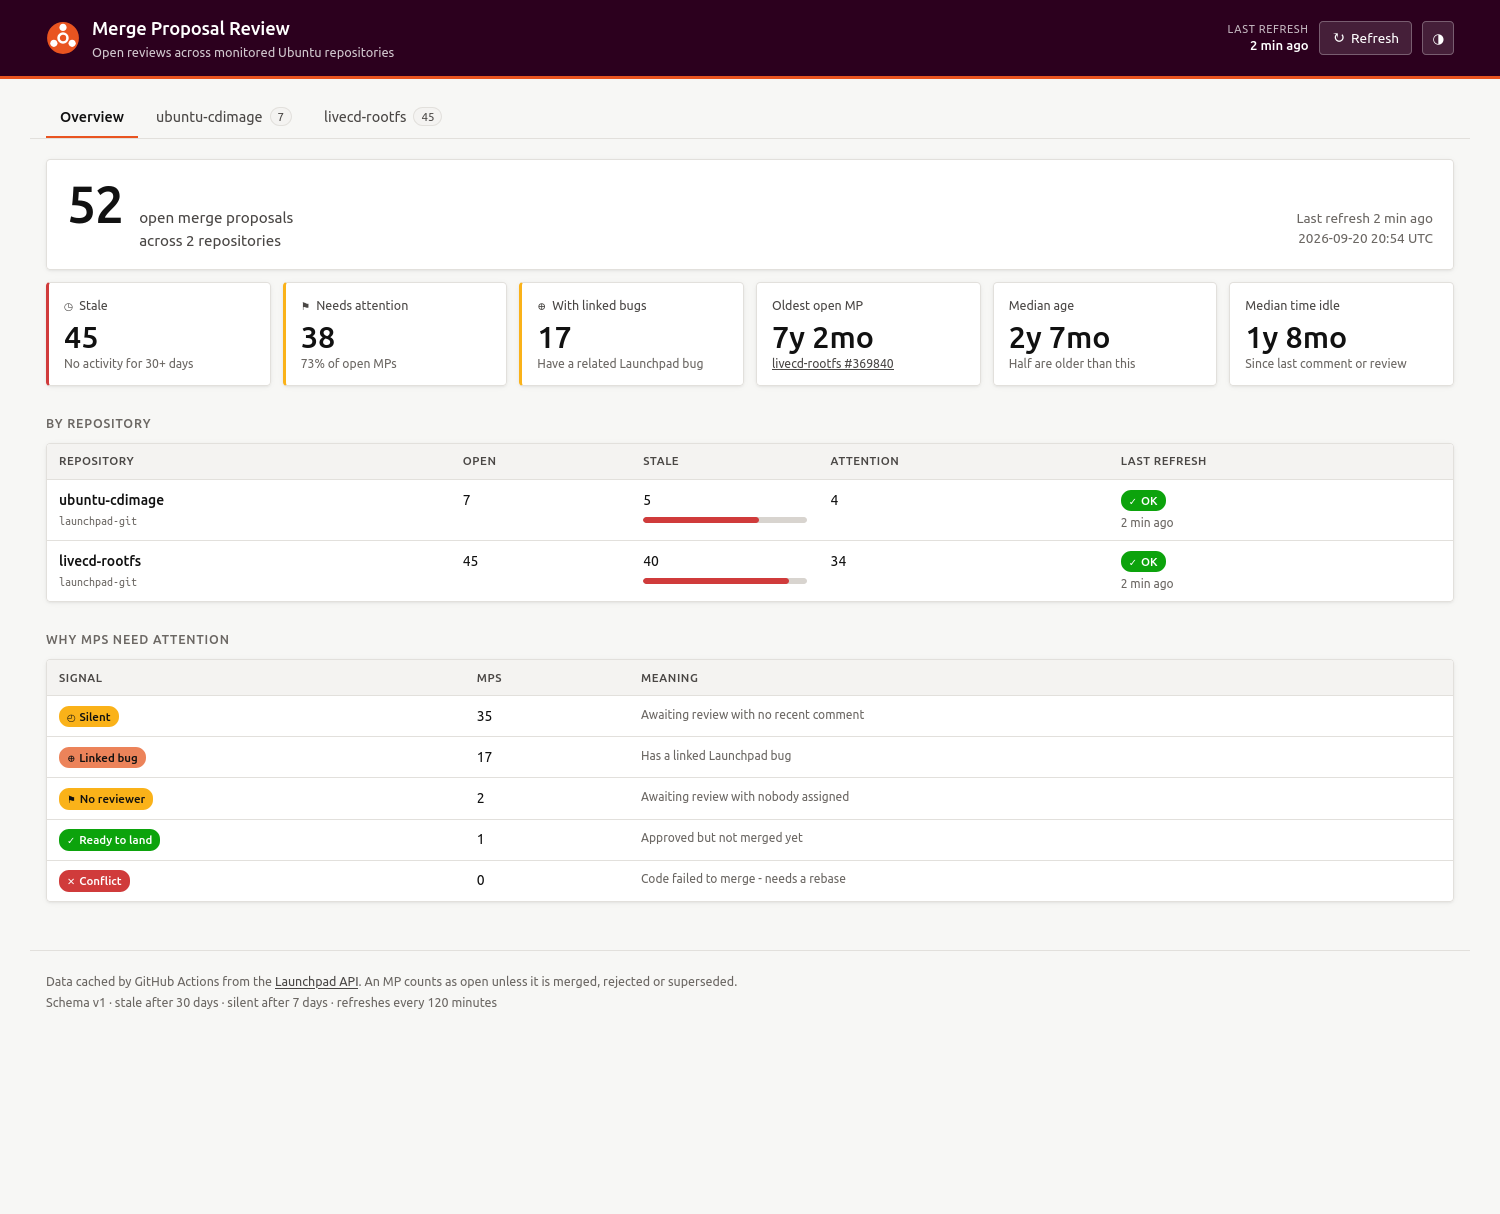
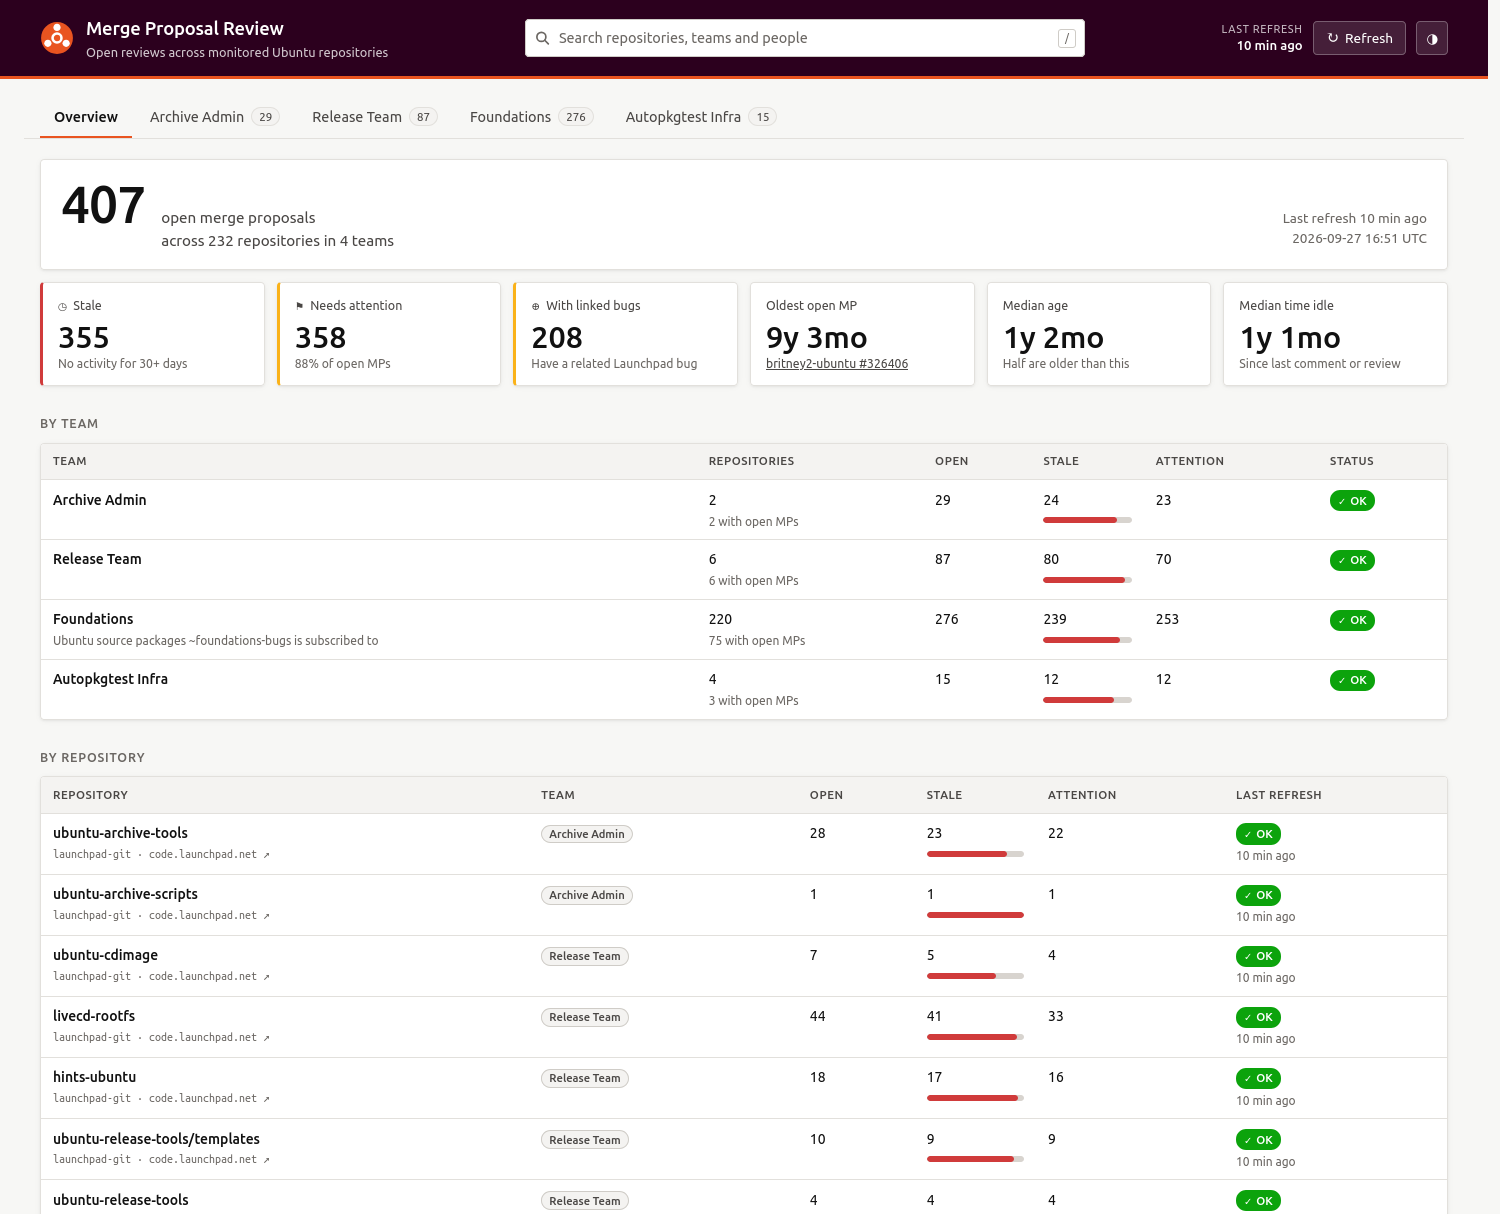
docs: document teams, search and the People view

diff --git a/README.md b/README.md
@@ -4,13 +4,25 @@ A small, static dashboard showing every **open merge proposal** across a
 configured set of Ubuntu repositories — what is stale, what needs attention, and
 who owns it. Hosted on GitHub Pages, refreshed by GitHub Actions.
 
-![Overview tab: 52 open merge proposals, stale and attention counts, per-repository breakdown](docs/assets/screenshot-overview.png)
+![Overview: open merge proposals, stale and attention counts, per-team and per-repository breakdowns](docs/assets/screenshot-overview.png)
 
-<details><summary>Per-project tab</summary>
+<details><summary>Team, people and repository views</summary>
+
+![A team's repositories with open, stale and attention counts, filterable and sortable](docs/assets/screenshot-team.png)
+
+![A team's people with their open, stale and attention counts](docs/assets/screenshot-people.png)
 
 ![A sortable, filterable table of merge proposals with status, author, age, idle time and flags](docs/assets/screenshot-project.png)
 
 </details>
+
+Repositories are grouped into **teams**. The top tabs are Overview plus one tab
+per team; a team's tab lists its repositories, and each repository opens the
+merge-proposal table. A team can also have a **People** view: its members, each
+with every merge proposal they have open on Launchpad. The search box in the
+header (press <kbd>/</kbd>) finds any repository, team or person by any part of
+its name. Every view has its own link (`#team/foundations`,
+`#team/foundations/people/juliank`, `#repo/livecd-rootfs`).
 
 ---
 
@@ -22,7 +34,7 @@ with `405`, so a page on GitHub Pages cannot fetch it directly — verified, not
 assumed. The architecture follows from that:
 
 ```
-GitHub Actions (every 2h)              GitHub Pages (static)
+GitHub Actions (daily)                 GitHub Pages (static)
   scripts/fetch.py                       docs/index.html
     └─ scripts/providers/launchpad.py      └─ docs/assets/app.js
          │                                        ▲
@@ -59,31 +71,48 @@ python -m http.server 8000 --directory docs
 |---|---|
 | `python scripts/fetch.py` | Refresh every configured repository |
 | `--repo livecd-rootfs` | Only this repo (repeatable). Untouched repos keep their cached data |
+| `--team foundations` | Only this team's repos (repeatable). Untouched repos keep their cached data |
 | `--no-bugs` | Skip the linked-bug lookups |
 | `--dry-run` | Print a summary, write nothing |
 | `--out PATH` / `--config PATH` | Override the data file or config location |
 | `-v` | Show per-request retry detail |
 
-A full refresh of the two default repositories takes roughly **two minutes**.
+A full refresh — 232 repositories, about 400 open MPs and the Foundations
+People view as of September 2026 — takes roughly **six to eight minutes**.
 
 ---
 
 ## Configuration
 
-Everything lives in [`config/repos.yaml`](config/repos.yaml). Project tabs are
-generated from this file — nothing about them is hard-coded in the UI.
+Everything lives in [`config/repos.yaml`](config/repos.yaml). Team tabs and
+their repositories are generated from this file — nothing about them is
+hard-coded in the UI.
 
 ```yaml
 defaults:
-  stale_after_days: 30          # no activity for this long -> STALE
-  silent_after_days: 7          # needs-review + no comment this long -> attention
-  refresh_interval_minutes: 120 # UI poll interval; keep the workflow cron in step
-  fetch_linked_bugs: true       # set false if refresh runs get slow
+  stale_after_days: 30           # no activity for this long -> STALE
+  silent_after_days: 7           # needs-review + no comment this long -> attention
+  refresh_interval_minutes: 1440 # fetch cadence; keep the workflow cron in step
+  fetch_linked_bugs: true        # set false if refresh runs get slow
   max_workers: 8
+
+teams:                           # the tabs, in this order
+  - id: release-team
+    name: Release Team
+  - id: foundations
+    name: Foundations
+    description: Ubuntu source packages ~foundations-bugs is subscribed to
+    discover:                    # repositories found at fetch time
+      provider: launchpad-git
+      bug_subscriber: "~foundations-bugs"
+    people:                      # adds a People view
+      provider: launchpad-git
+      members_of: "~canonical-foundations"
 
 repositories:
   - id: livecd-rootfs
     name: livecd-rootfs
+    team: release-team
     provider: launchpad-git
     namespace: "~ubuntu-core-dev"   # Launchpad owner
     project: livecd-rootfs
@@ -91,7 +120,45 @@ repositories:
 ```
 
 `namespace`, `project` and `repository` combine into the Launchpad API path
-`{namespace}/{project}/+git/{repository}`.
+`{namespace}/{project}/+git/{repository}`. A repository attached to an Ubuntu
+source package uses `source_package: <name>` (and optionally `distribution`,
+default `ubuntu`) instead of `project`, giving
+`{namespace}/{distribution}/+source/{source_package}/+git/{repository}`.
+
+### Teams
+
+Every listed repository names its team with `team:`; the fetcher refuses to run
+if a team is unknown or an id is used twice. Adding a team is one `teams:` entry,
+and moving a repository is a one-word `team:` edit. A team with no repositories
+still gets a tab, with a note on how to add some.
+
+A team can also **discover** its repositories instead of listing them.
+`bug_subscriber` tracks every Ubuntu source package that Launchpad team is
+bug-subscribed to — exactly the list on its
+[`+packagebugs`](https://bugs.launchpad.net/~foundations-bugs/+packagebugs)
+page — through each package's git-ubuntu repository
+(`lp:ubuntu/+source/<package>`, where Ubuntu MPs are proposed). The list is
+re-read on every refresh, so subscribing to a package is all it takes to add it.
+Discovered repositories get the id `<team>-<package>`, e.g. `foundations-apport`.
+
+If discovery fails, the fetcher keeps refreshing the repositories the last
+successful run found, and the dashboard notes that the team's list is out of
+date; nothing disappears.
+
+### People
+
+`people` gives a team a **People** view: every member of the Launchpad team
+`members_of` (including members through sub-teams), each with every open merge
+proposal they have — in the repositories tracked here, and anywhere else on
+Launchpad (other packages, upstream projects, old bzr branches). The fetcher
+lists people after the repositories and only fetches details for MPs no tracked
+repository already shows, so nothing is fetched twice. MPs found this way
+appear only in the People view; team and Overview totals count repositories.
+For `~canonical-foundations` that is 42 people and about 340 extra MPs, which
+adds about a minute and a half to a refresh.
+
+A member whose MPs cannot be listed keeps the ones from the last run, and the
+dashboard notes it.
 
 Changing `refresh_interval_minutes` also means updating the `cron:` line in
 [`.github/workflows/refresh.yml`](.github/workflows/refresh.yml) — the config
@@ -138,7 +205,7 @@ touched is on its way to being.
 4. Run **Actions → Refresh merge proposal data → Run workflow** once to populate
    `docs/data/dashboard.json`.
 
-The workflow runs every two hours, on manual dispatch, and whenever the config
+The workflow runs daily at 21:02 UTC, on manual dispatch, and whenever the config
 or fetcher changes. It skips the commit when nothing changed, and it succeeds
 even if individual repositories fail — that state is data the dashboard renders,
 not a broken build.
@@ -205,7 +272,7 @@ field — not reshaping the data model.
 ## Layout
 
 ```
-config/repos.yaml               repositories + thresholds
+config/repos.yaml               teams, repositories + thresholds
 scripts/fetch.py                CLI entrypoint, merges with cached data
 scripts/providers/base.py       normalised model + staleness/attention rules
 scripts/providers/launchpad.py  Launchpad git provider
